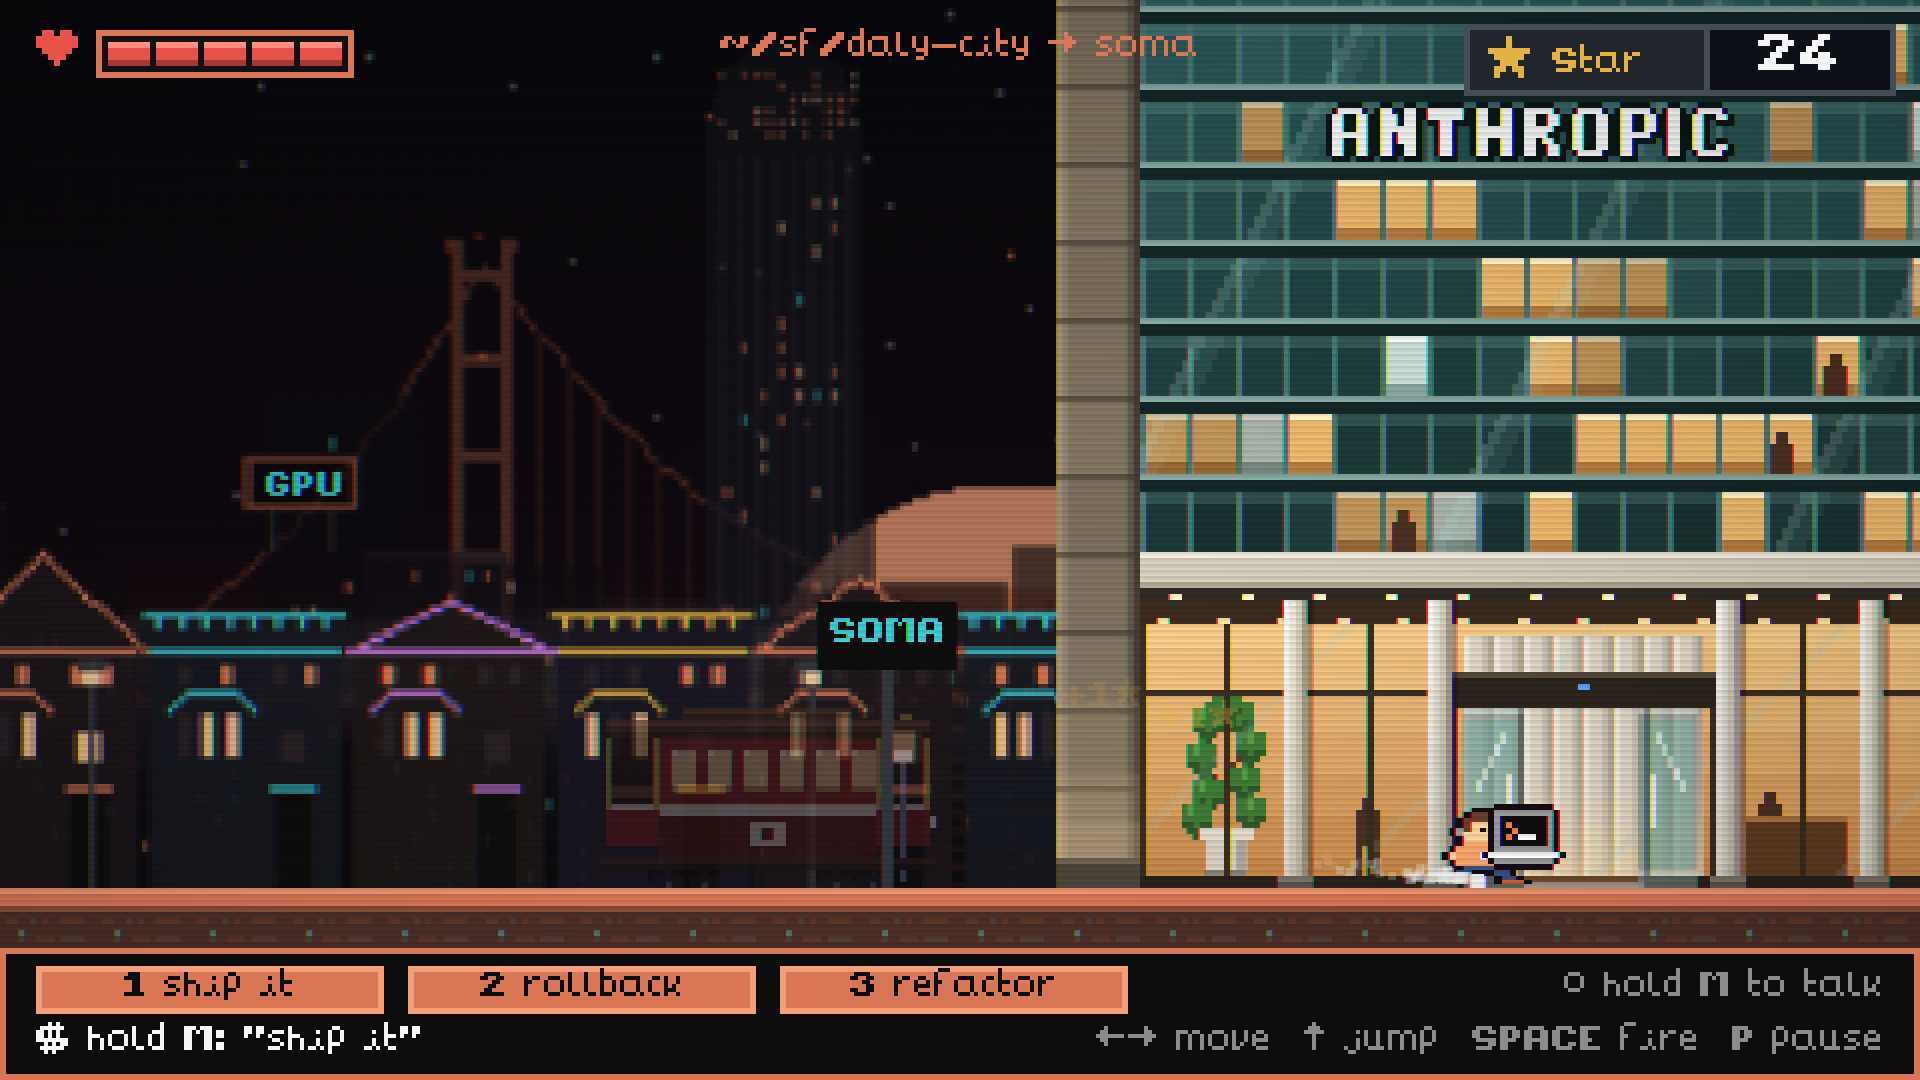
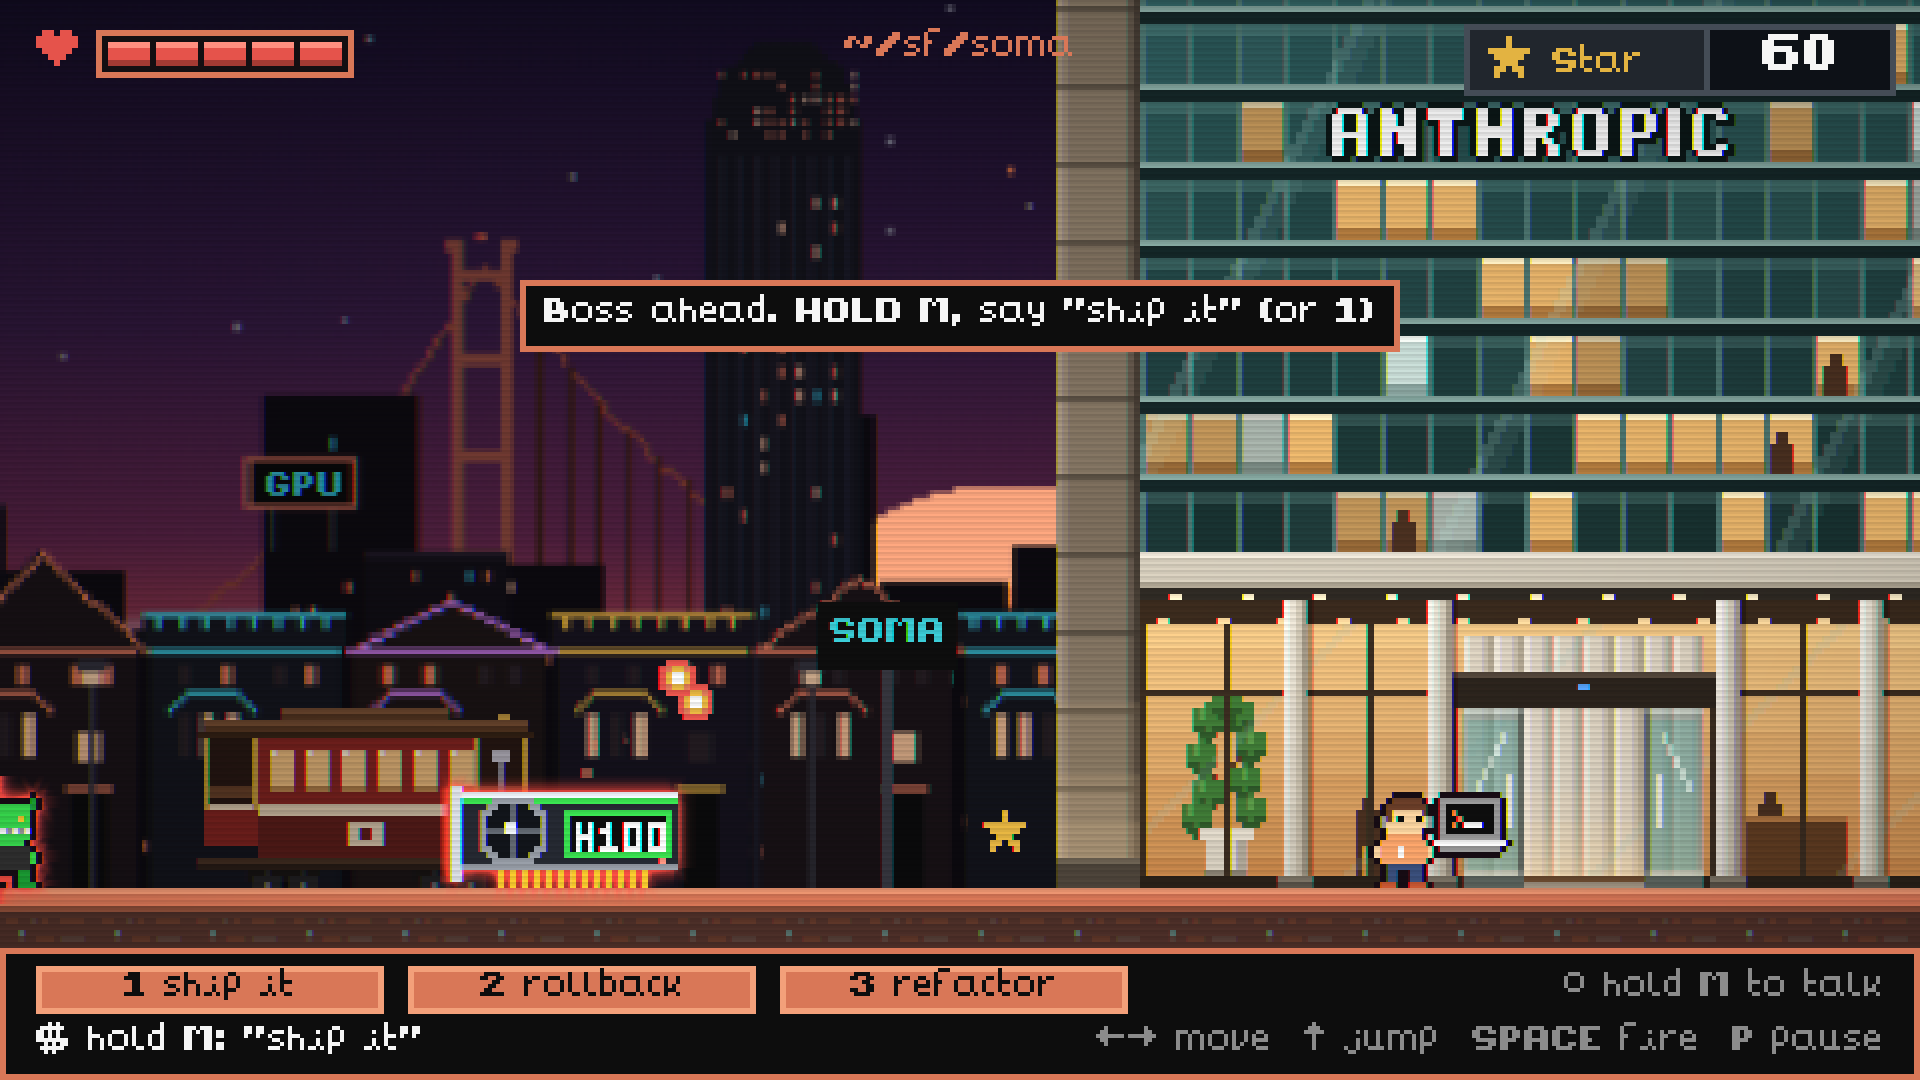
README: retake the walkthrough for today's intro, route label, and Context Rot rework
Thirteen of the fifteen screenshots are retaken (the win screen and the portrait prompt
did not change): the title credit, the sunset sky, the per-neighborhood path, the H100
heap with its token pipes, the overflow with the threats above the rain and refactor in
the terminal bar, and a phone jump-shot showing the reversed-controls chip. The captions
and features follow: the 12-second intro without "demo's at 5", rollback taught on real
damage, the path at each street sign, and the new boss look. The Tests table gains
today's checks: overflow readability, intro length and skip, and the rollback tip.

diff --git a/README.md b/README.md
@@ -25,7 +25,7 @@ Voice      Web Speech API in the browser (Chrome or Edge), keys 1/2/3 or taps as
 Tests      0 automated; scripted browser checks recorded in docs/review/
 ```
 
-Live URL checked 2026-09-26: HTTP 200.
+Live URL checked 2026-09-27: HTTP 200.
 
 ---
 
@@ -55,24 +55,27 @@ set up the microphone.
 
 ![Title screen](docs/screenshots/01-title.png)
 
-**2. The hook.** The robotaxi pulls up and `#demo-day` asks for one small change, then dark
-mode, then reminds you the demo is at 5 (the last ping is shown).
+**2. The hook.** The robotaxi pulls up as `#demo-day` asks for one small change, then dark
+mode (the first ping is shown).
 
 ![Slack ping during the intro](docs/screenshots/02-intro-slack-ping.png)
 
 **3. The drop-off.** The car stops at the edge of its service area, roof lidar sweeping; Anthropic
-HQ is 9.4 miles away. Enter, or a tap, skips the whole intro.
+HQ is 9.4 miles away. The intro hands over control after about 12 seconds; Enter, or a tap,
+skips it.
 
 ![Waymo dialogue: edge of the service area](docs/screenshots/03-intro-edge-of-service-area.png)
 
 **4. Powers are taught at the moment of need.** When a cluster of Bad Prompt Blobs comes into
-view, a tip explains `refactor` and the matching slot in the terminal bar flashes.
+view, a tip explains `refactor` and the matching slot in the terminal bar flashes. `rollback`
+is taught the first time you actually lose health, not at a fixed spot.
 
 ![Contextual tip for the refactor power](docs/screenshots/04-voice-power-tip.png)
 
 **5. Street combat.** Prompt bolts from the laptop against a Bad Prompt Blob, under the first
 tip, with Sutro Tower, Coit Tower, and the Painted Ladies behind. The HUD shows the pixel health
-bar and the GitHub star counter.
+bar, the GitHub star counter, and the neighborhood you are in as a path, which changes at each
+street sign on the way to SoMa.
 
 ![Street combat in Daly City](docs/screenshots/05-street-combat.png)
 
@@ -93,18 +96,23 @@ you as you walk in.
 ![Anthropic HQ at the end of Level 1, its sliding doors opening](docs/screenshots/08-hq-entrance.png)
 
 **9. The Context Rot Hydra.** Inside, the office goes quiet, the terminal types
-`make one small change`, the heads answer, and the boss card lands. The HUD shows boss health
-and, separately, context growth.
+`make one small change`, the heads answer, and the boss card lands. The body is a heap of H100s
+with their fans spinning, and the necks are pipes streaming tokens up into the heads; every
+growth turn drops another card on the heap. The HUD shows boss health and, separately, context
+growth.
 
 ![Context Rot Hydra title card](docs/screenshots/09-boss-title-card.png)
 
 **10. A full context window.** Every attack has a 600 ms wind-up: the image-flood head flashes
 and marks its drop lanes on the floor before the tiles fall, always leaving three adjacent lanes
-clear. The heads here are fully grown, so the context overflows: terminal rain starts falling,
-context rot will deal damage until you refactor, the meter reads OVERFLOW, and the refactor tip
-stays up with its slot flashing. A notification skull hunts from the Hydra's base.
+clear. The heads here are fully grown, so the context overflows: terminal rain buries the office
+and the platforms, and a lie sinks into the noise. Everything that can hurt you still draws above
+the rain, the lane markers included, and the player keeps a small pool of clear sight. Context rot
+deals damage every 3 seconds until you refactor; the meter reads OVERFLOW, the terminal bar's
+status line turns red with the command, and slot 3 flashes. A notification skull hunts from the
+Hydra's base.
 
-![Hydra at full context: flood lanes marked, overflow starting](docs/screenshots/10-boss-context-overflow.png)
+![Hydra at full context: rain over the arena, flood lanes marked, refactor called out in the terminal bar](docs/screenshots/10-boss-context-overflow.png)
 
 **11. The payoff.** The robotaxi comes back (HQ is inside its service area), `#demo-day` asks
 for one more small change, and an original chiptune victory song plays.
@@ -127,7 +135,8 @@ are held. Powers are taps on the terminal bar, beside a hold-to-talk slot, and t
 ![Level 1 on a phone with the touch controls](docs/screenshots/13-phone-level.png)
 
 **14. The Hydra on a phone.** A jump-shot with fire and jump held together, a pause button
-beside the star badge, and a head lying to you.
+beside the star badge, and a head lying to you. The `<->` chip over the player means a gaslight
+orb has just reversed the controls; it blinks out when they come back.
 
 ![Boss fight on a phone](docs/screenshots/14-phone-boss.png)
 
@@ -142,11 +151,11 @@ A dated design review with before and after screenshots is in
 
 ## Features
 
-- A skippable robotaxi intro cutscene with Slack `#demo-day` messages, and a matching payoff on the win screen
-- One side-scrolling level from Daly City to SoMa over a parallax San Francisco skyline (Sutro Tower, the Golden Gate Bridge, Coit Tower, the Transamerica Pyramid, the Salesforce Tower, the Painted Ladies, moving cable cars), ending at Anthropic HQ's glass tower, whose sliding doors let you into the lobby
+- A skippable, 12-second robotaxi intro cutscene with Slack `#demo-day` messages, and a matching payoff on the win screen
+- One side-scrolling level from Daly City to SoMa, with the HUD path following the neighborhood signs, over a parallax San Francisco skyline (Sutro Tower, the Golden Gate Bridge, Coit Tower, the Transamerica Pyramid, the Salesforce Tower, the Painted Ladies, moving cable cars), ending at Anthropic HQ's glass tower, whose sliding doors let you into the lobby
 - Three enemy types: the Bad Prompt Blob (splits in two), the Keyboard Goblin (charges and spits keycaps), and the H100 GPU (six hit points, vents arcing heat)
 - A rideable Powell St cable car, star arcs over pits, and pits that glow `404`
-- The Context Rot Hydra boss: three heads with distinct roles (image flood, gaslighting orb that reverses your controls, a spawner whose notification skulls hunt you and respawn until that head dies), growth every 8 seconds that floods the arena with matrix rain and context rot once the context window is full, until you refactor, lying speech bubbles, an enraged last head, and Furbies in the office worth bonus stars
+- The Context Rot Hydra boss: a heap of H100s whose neck pipes stream tokens into three heads with distinct roles (image flood, gaslighting orb that reverses your controls, shown as a chip over the player, and a spawner whose notification skulls hunt you and respawn until that head dies); growth every 8 seconds, each turn dropping another GPU on the heap; once the context window is full, matrix rain buries the arena and context rot deals damage until you refactor, while threats and warnings stay drawn above the rain; lying speech bubbles, an enraged last head, and Furbies in the office worth bonus stars
 - Push-to-talk voice powers (`ship it`, `rollback`, `refactor`) with keyboard and tap equivalents; the HUD shows what was heard separately from what actually fired, and when a power is cooling down
 - A MAX power-up past the second pit: grab the chip and holding fire streams random characters at 25 a second from a 160-token budget, until the usage limit hits; unspent tokens carry into the Hydra fight
 - Platformer feel: coyote time, a 120 ms jump buffer, half gravity at the jump apex, a faster fall, hit stop, squash and stretch, and camera lookahead
@@ -290,6 +299,9 @@ against the running game, recorded with screenshots in
 | Winning while taking damage | Exactly one outcome: the final head dies with the player at 1 HP against the boss, and the game ends in victory |
 | Three consecutive boss retries | One music track, one voice listener, one pause listener each time; stars restored to the checkpoint |
 | Flood warnings are honest | Tiles land exactly on the marked lanes, leaving a clear gap |
+| Overflow stays readable (2026-09-27) | At full rain, the flood lane markers, hazards, heads, and the player draw above it; context rot still ticks at 3, 6, and 9 s after the overflow starts; refactor clears it and the terminal bar's normal hint returns |
+| Intro length and skip (2026-09-27) | Control returns at 11.9 s (was 18.2 s); a skip partway through leaves the player visible with physics on, the HUD shown, and no intro events pending |
+| Rollback tip on real damage (2026-09-27) | Shown after the first hit that lands, waiting out any other tip; not in god mode, not once rollback has been used, and reset by a new run |
 | Context meter is truthful | The HUD countdown matches the real growth timer, including after `refactor` |
 | Push-to-talk parsing | The four cases in [Architecture](#the-design-decision-worth-explaining) pass with a simulated recognizer |
 | Production build | Loads with no failed requests and no console errors or warnings, locally and on the live URL |
